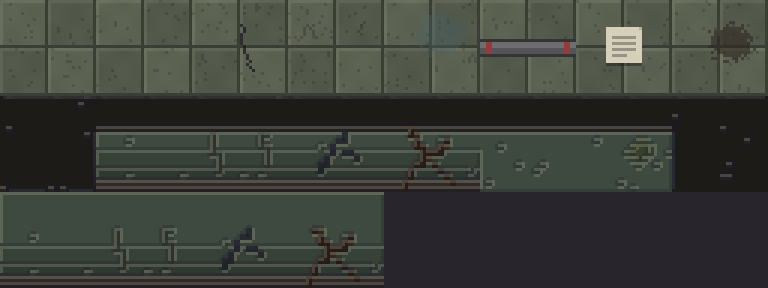
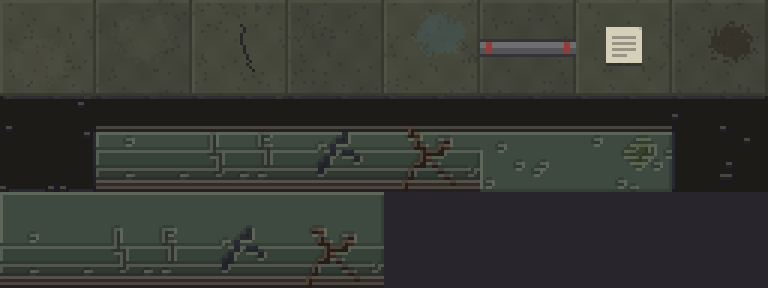
Darken Bob's office floor to match the store's mood
Dim worn sheet linoleum in tile-wide squares with faint seams, instead
of the bright 16 px squares.

Claude-Session: https://claude.ai/code/session_018R13mVkJcuKLJPEhBX4x6i

diff --git a/art/source/props/make-office-32.py b/art/source/props/make-office-32.py
@@ -19,9 +19,9 @@ sys.path.insert(0, str(ROOT / "art/source"))
 from upres32 import preview, upres  # noqa: E402
 
 T = 32
-# Two tired linoleum tones in 16 px squares, the green-grey of an office that's a bit too old.
-LINO = [(92, 98, 82), (82, 88, 74)]
-SEAM = (58, 62, 52)
+# Dim, worn sheet linoleum in big tile-sized squares, the colour of an office that's a bit too old.
+LINO = [(70, 72, 60), (66, 68, 57)]
+SEAM = (48, 48, 42)
 WARM = (255, 244, 220)
 COOL = (24, 22, 30)
 
@@ -39,7 +39,7 @@ def mix(c, to, k):
 
 
 def linoleum(frame: int) -> Image.Image:
-    """One floor tile: four 16 px linoleum squares, faintly mottled, with a seam where they meet.
+    """One floor tile of dim, worn linoleum, faintly mottled, with a faint seam on two sides.
     Frames 2 to 7 keep the old sheet's wear: a crack, scuffs, a water stain, a cable cover, a
     dropped memo and a dark stain."""
     rng = random.Random(900 + frame)
@@ -47,15 +47,16 @@ def linoleum(frame: int) -> Image.Image:
     px = im.load()
     for y in range(T):
         for x in range(T):
-            base = LINO[((x // 16) + (y // 16)) % 2]
+            base = LINO[frame % 2]
             n = math.sin(x * 0.45 + frame) * math.sin(y * 0.38 + frame * 2) * 2.5
             c = tuple(round(v + n) for v in base)
             if rng.random() < 0.04:
                 c = mix(c, COOL, 0.2)
-            if x % 16 == 15 or y % 16 == 15:
-                c = SEAM
-            elif x % 16 == 0 or y % 16 == 0:
-                c = mix(c, WARM, 0.08)
+            # Faint seams: the sheet was laid in tile-wide strips long ago.
+            if x == T - 1 or y == T - 1:
+                c = mix(c, SEAM, 0.6)
+            elif x == 0 or y == 0:
+                c = mix(c, WARM, 0.05)
             px[x, y] = c + (255,)
 
     def dots(path, colour, k):
@@ -76,6 +77,8 @@ def linoleum(frame: int) -> Image.Image:
         cx, cy = rng.randrange(10, 22), rng.randrange(10, 22)
         dots([(x, y) for y in range(T) for x in range(T) if math.hypot(x - cx, (y - cy) * 1.2) + rng.uniform(-2, 2) < r], colour, k)
 
+    if frame in (0, 1):
+        blot((84, 84, 70), 9, 0.25)  # worn paler where people walk
     if frame == 2:
         walk(16, COOL, 0.7)  # a crack
     elif frame == 3:
